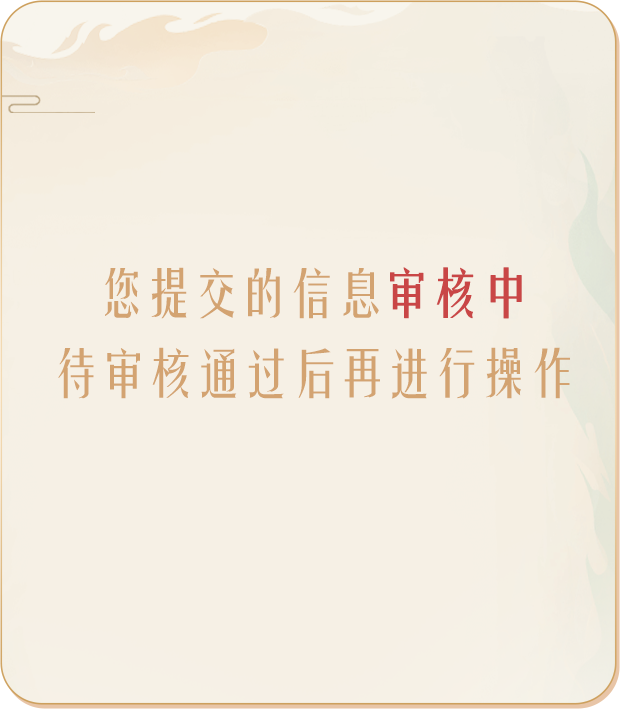
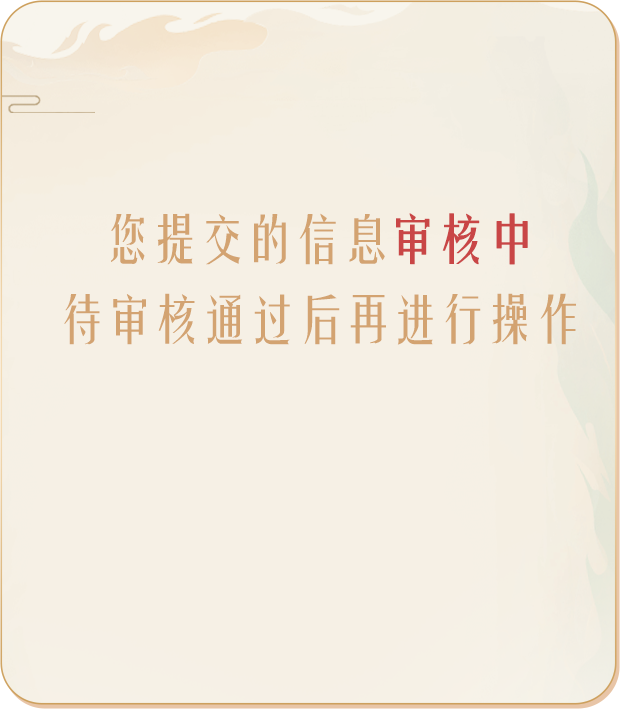
正式版0.1.3 通知中图片添加重新输入

Changed region(s): [[0.0919, 0.2793, 0.9194, 0.5896]]

diff --git a/src/views/Home.vue b/src/views/Home.vue
@@ -2,7 +2,7 @@
   <div class="home" ref="Width">
     <div class="mask loadding" v-if="isshow"></div>
     <!-- 再次进入时页面 -->
-    <showImg imgName="passing" v-if="userInformation && userInformation.status === 0"></showImg>
+    <showImg imgName="passing" v-if="userInformation && userInformation.status === 0" @result="resultWord"></showImg>
     <showImg imgName="pass" v-if="userInformation && userInformation.status === 1"></showImg>
     <showImg imgName="noPass" v-if="userInformation && userInformation.status === -1" @result="resultWord"></showImg>
     <!-- 默认页面 -->

diff --git a/src/components/showImg.vue b/src/components/showImg.vue
@@ -1,7 +1,7 @@
 <template>
   <div class="ShowImg">
     <div class='img' :style="{backgroundImage:'url('+imgUrl+')'}">
-      <button class='button' @click="resultButton" v-if="imgName=='noPass'"></button>
+      <button class='button' @click="resultButton" v-if="imgName=='noPass'||imgName=='passing'"></button>
     </div>
   </div>
 </template>
